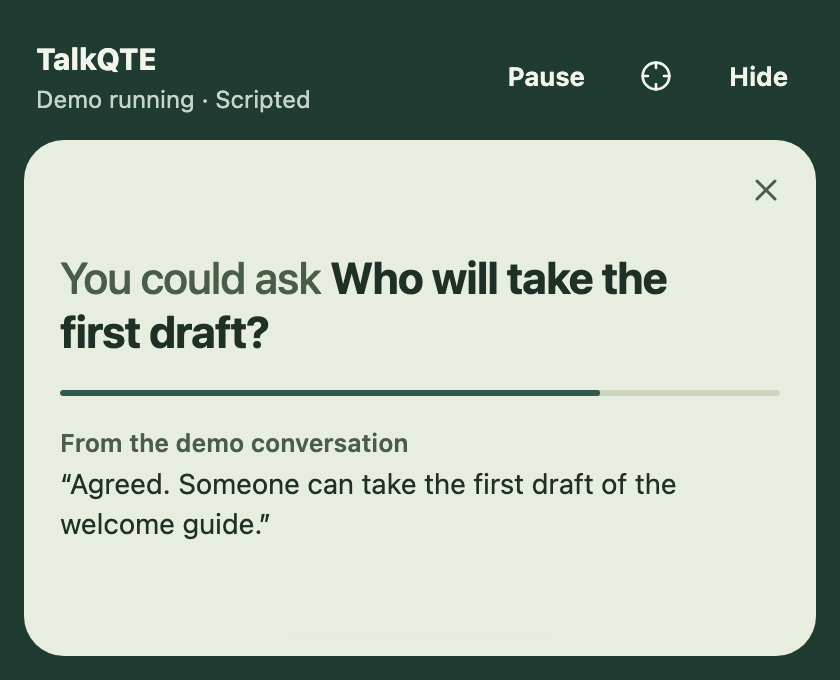
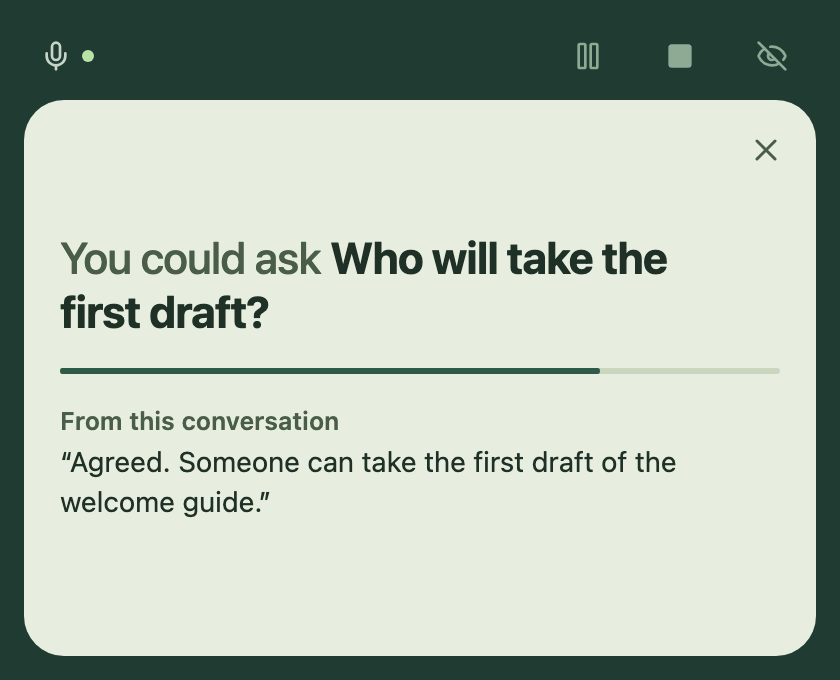
refactor(engine): remove the unused keep_line command and expanded field
Two things were left with no caller after the cue card was trimmed:

- keep_line, which wrote a quoted line into the notes. The card's button
  for it is gone, so the Rust command, the engine method, its permission
  for both windows, the browser stand-in and the type are removed. No
  cue can reach the notes now.
- expanded on a cue, and the argument that set it. Nothing opens a cue's
  context any more and the window has one size. inspect_cue keeps its
  name and now only holds the cue.

The companion also loses permission to change sensitivity: its focus
switch was removed with the quieter bar, so nothing there used it.

PRIVACY.md said the companion could append a quoted line to the notes;
it now says no cue is written to the notes and the companion cannot
write to them. The design record's two "after" captures are retaken
from the finished card.

Changed region(s): [[0.0619, 0.3397, 0.9286, 0.8029], [0.031, 0.0618, 0.9905, 0.3088]]

diff --git a/src/App.tsx b/src/App.tsx
@@ -280,12 +280,9 @@ function FloatingQuestion() {
                 size={state.questionSize}
                 announce={false}
                 busy={busy}
-                onInspect={(expanded) =>
+                onHold={() =>
                   void run(() =>
-                    bridge.command('inspect_cue', {
-                      id: state.cue!.id,
-                      expanded,
-                    }),
+                    bridge.command('inspect_cue', { id: state.cue!.id }),
                   )
                 }
                 onDismiss={() => {
@@ -764,11 +761,9 @@ function Notebook() {
   const simulated = !!state.simulated && state.status === 'running';
   const modelNeeded =
     model?.status === 'missing' || model?.status === 'downloading';
-  const inspectCue = (expanded: boolean) => {
+  const holdCue = () => {
     if (!state.cue) return;
-    void run(() =>
-      bridge.command('inspect_cue', { id: state.cue!.id, expanded }),
-    );
+    void run(() => bridge.command('inspect_cue', { id: state.cue!.id }));
   };
   const toggleLiveCues = () =>
     void run(() =>
@@ -1404,7 +1399,7 @@ function Notebook() {
                   size={state.questionSize}
                   busy={busy}
                   onDismiss={dismiss}
-                  onInspect={inspectCue}
+                  onHold={holdCue}
                   empty={
                     <div className="question-idle">
                       <h3>

diff --git a/tests/fixtures/native-microphone.ts b/tests/fixtures/native-microphone.ts
@@ -251,7 +251,6 @@ async function say(text: string, question?: string) {
             remainingMs: 18_000,
             totalMs: 18_000,
             held: false,
-            expanded: false,
             resolvedBy: null,
             note: null,
             aboutFocus: false,
@@ -489,10 +488,10 @@ mockIPC(
       case 'export_markdown':
         return true;
       case 'inspect_cue': {
-        const { id, expanded } = args as Commands['inspect_cue'];
+        const { id } = args as Commands['inspect_cue'];
         if (session.cue?.id !== id)
           throw new Error('That question has already passed.');
-        await publish({ cue: { ...session.cue, expanded, held: true } });
+        await publish({ cue: { ...session.cue, held: true } });
         return;
       }
       case 'respond_to_cue':

diff --git a/src/components/Question.tsx b/src/components/Question.tsx
@@ -237,7 +237,7 @@ interface QuestionProps {
   busy: boolean;
   onDismiss: () => void;
   /** Holds the cue until it is dismissed; the source is always in view. */
-  onInspect: (expanded: boolean) => void;
+  onHold: () => void;
 }
 
 export function Question({
@@ -246,7 +246,7 @@ export function Question({
   announce = true,
   busy,
   onDismiss,
-  onInspect,
+  onHold,
   leaving = false,
   onLeft,
 }: QuestionProps & {
@@ -320,7 +320,7 @@ export function Question({
           aria-disabled={cue.held || busy}
           aria-describedby={timed || cue.held ? undefined : staysId}
           onClick={() => {
-            if (!cue.held && !busy) onInspect(false);
+            if (!cue.held && !busy) onHold();
           }}
         >
           {timed || cue.held ? (

diff --git a/src/lib/types.ts b/src/lib/types.ts
@@ -30,7 +30,6 @@ export interface Cue {
   remainingMs: number;
   totalMs: number;
   held: boolean;
-  expanded: boolean;
   resolvedBy: {
     sourceId: string;
     evidence: string;
@@ -81,8 +80,8 @@ export interface Snapshot extends CueSnapshot {
 export type Commands = {
   set_live_cues_paused: { paused: boolean };
   respond_to_cue: { id: string; response: 'dismiss' };
-  keep_line: { id: string };
-  inspect_cue: { id: string; expanded: boolean };
+  /** Holds the cue until it is dismissed. */
+  inspect_cue: { id: string };
   set_companion_position: { value: CueSnapshot['companionPosition'] };
   set_question_size: { value: CueSnapshot['questionSize'] };
   update_notes: { notes: string };

diff --git a/tests/glance.spec.ts b/tests/glance.spec.ts
@@ -115,10 +115,10 @@ test('the source shows without a click, and Hold keeps a question through later 
   await expect(
     question.getByRole('button', { name: 'Held', exact: true }),
   ).toBeFocused();
-  // Holding does not ask for the taller window that opening context used.
+  // The session holds the cue; that is all Hold asks for.
   expect(
     await page.evaluate(() => window.liveTest.session().cue),
-  ).toMatchObject({ held: true, expanded: false });
+  ).toMatchObject({ held: true });
   // Its time passes and a later line is heard; the held cue stays.
   await page.evaluate(async () => {
     const held = window.liveTest.session().cue!;

diff --git a/tests/evaluator-sources.spec.ts b/tests/evaluator-sources.spec.ts
@@ -72,7 +72,6 @@ test('mixed resolution keeps its own sources and removal releases every excerpt'
   const resolved: Cue = {
     ...mixedCue,
     held: true,
-    expanded: true,
     resolvedBy: {
       sourceId: mixedSources[0].id,
       evidence: 'Legacy resolution text.',
@@ -107,7 +106,6 @@ test('four long sources fit a narrow companion with larger text and usable dismi
   await nativePage(page, true);
   const long: Cue = structuredClone(mixedCue);
   long.held = true;
-  long.expanded = true;
   long.sources!.push({
     ...mixedSources[2],
     id: 'prior:file:long',

diff --git a/src/lib/preview.ts b/src/lib/preview.ts
@@ -68,8 +68,6 @@ export function command<K extends keyof Commands>(name: K, args?: Commands[K]) {
     case 'inspect_cue':
       // The browser preview never has a cue.
       throw new Error('That question has already passed.');
-    case 'keep_line':
-      throw new Error('That line has already passed.');
     case 'set_companion_position':
       state.companionPosition = (
         args as Commands['set_companion_position']

diff --git a/tests/question-motion.spec.ts b/tests/question-motion.spec.ts
@@ -266,7 +266,6 @@ const liveCue = {
   remainingMs: 18_000,
   totalMs: 18_000,
   held: false,
-  expanded: false,
   resolvedBy: null,
   note: null,
   aboutFocus: false,
@@ -403,7 +402,6 @@ test('an answer to a held cue opens in place with a tick, keeps focus, and does 
     remainingMs: 9_000,
     totalMs: 18_000,
     held: true,
-    expanded: false,
     resolvedBy: null,
     note: null,
     aboutFocus: false,

diff --git a/tests/fixtures/stand-in.ts b/tests/fixtures/stand-in.ts
@@ -54,7 +54,6 @@ export function cue(value: Partial<Cue> & Pick<Cue, 'kind' | 'question'>): Cue {
     remainingMs: 18_000,
     totalMs: 18_000,
     held: false,
-    expanded: false,
     resolvedBy: null,
     note: null,
     aboutFocus: false,

diff --git a/tests/companion-fit.spec.ts b/tests/companion-fit.spec.ts
@@ -13,7 +13,6 @@ const base = {
   remainingMs: 18_000,
   totalMs: 18_000,
   held: false,
-  expanded: false,
   resolvedBy: null,
   aboutFocus: false,
   sourceId: 'transcript:fictional-1',

diff --git a/tests/granola-unverified-reminders.spec.ts b/tests/granola-unverified-reminders.spec.ts
@@ -19,7 +19,6 @@ const reminder: Cue = {
   remainingMs: 18_000,
   totalMs: 18_000,
   held: false,
-  expanded: false,
   resolvedBy: null,
   note: {
     title: 'Garden welcome guide',

diff --git a/tests/fixtures/evaluator-cue.ts b/tests/fixtures/evaluator-cue.ts
@@ -45,7 +45,6 @@ export const mixedCue: Cue = {
   remainingMs: 18_000,
   totalMs: 18_000,
   held: false,
-  expanded: false,
   resolvedBy: null,
   note: null,
   aboutFocus: false,
